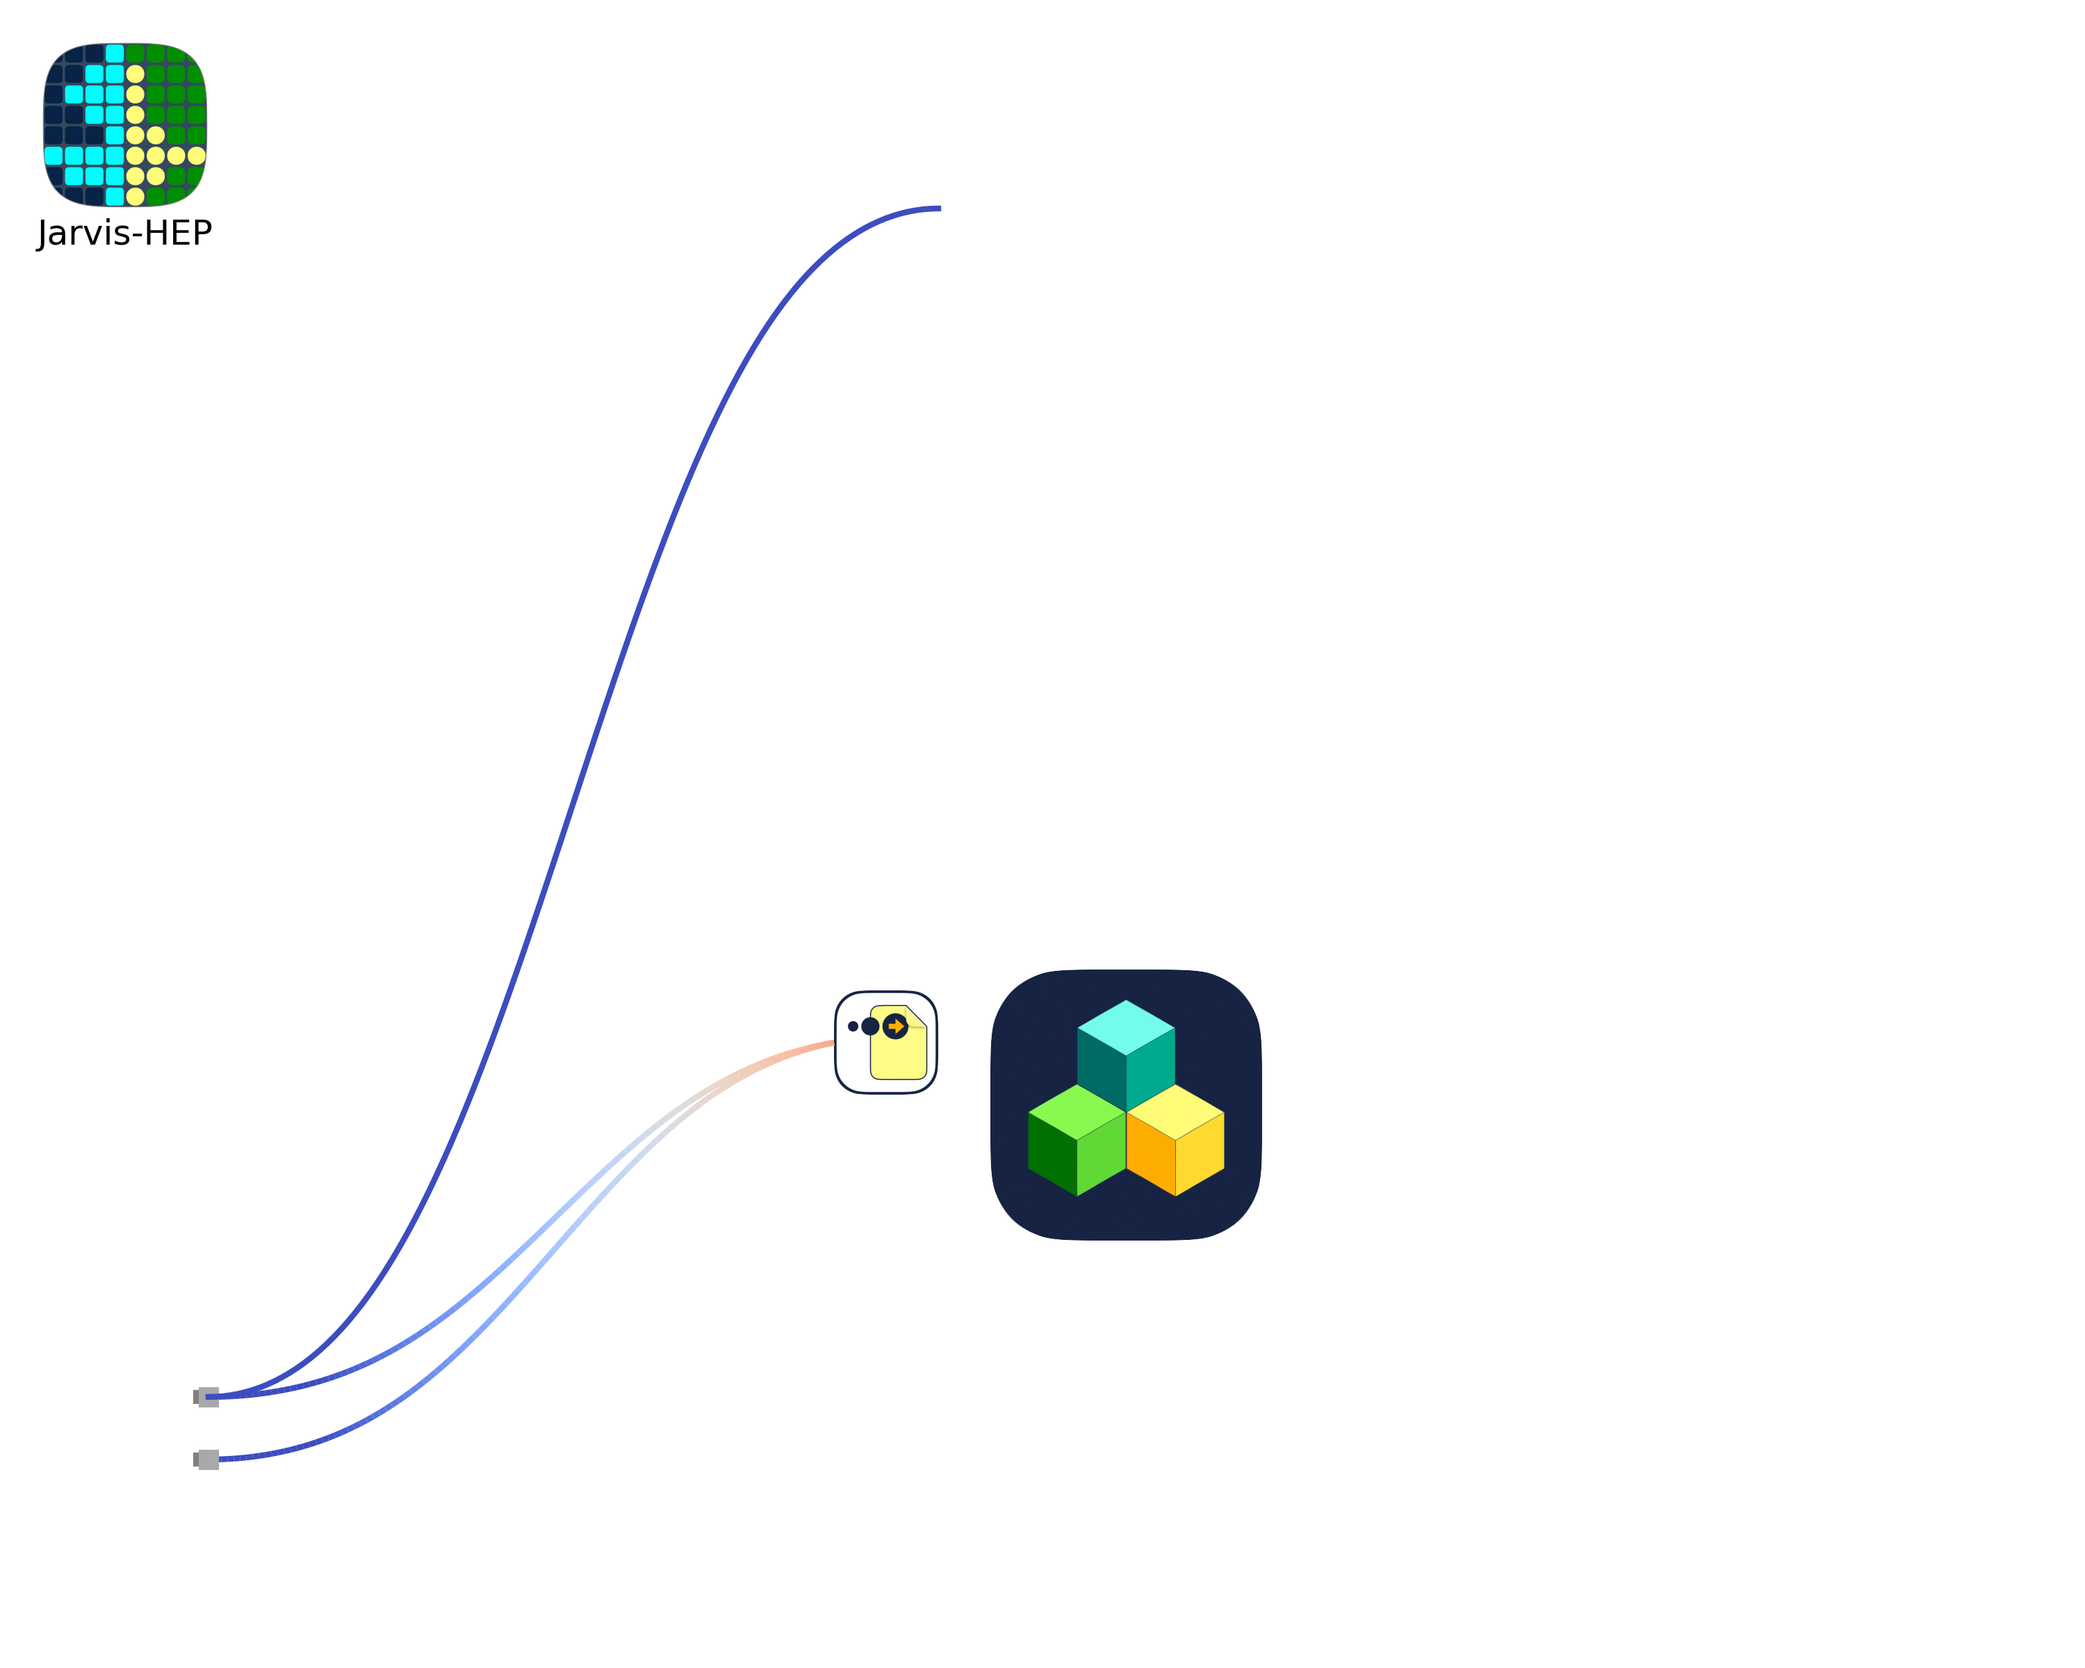
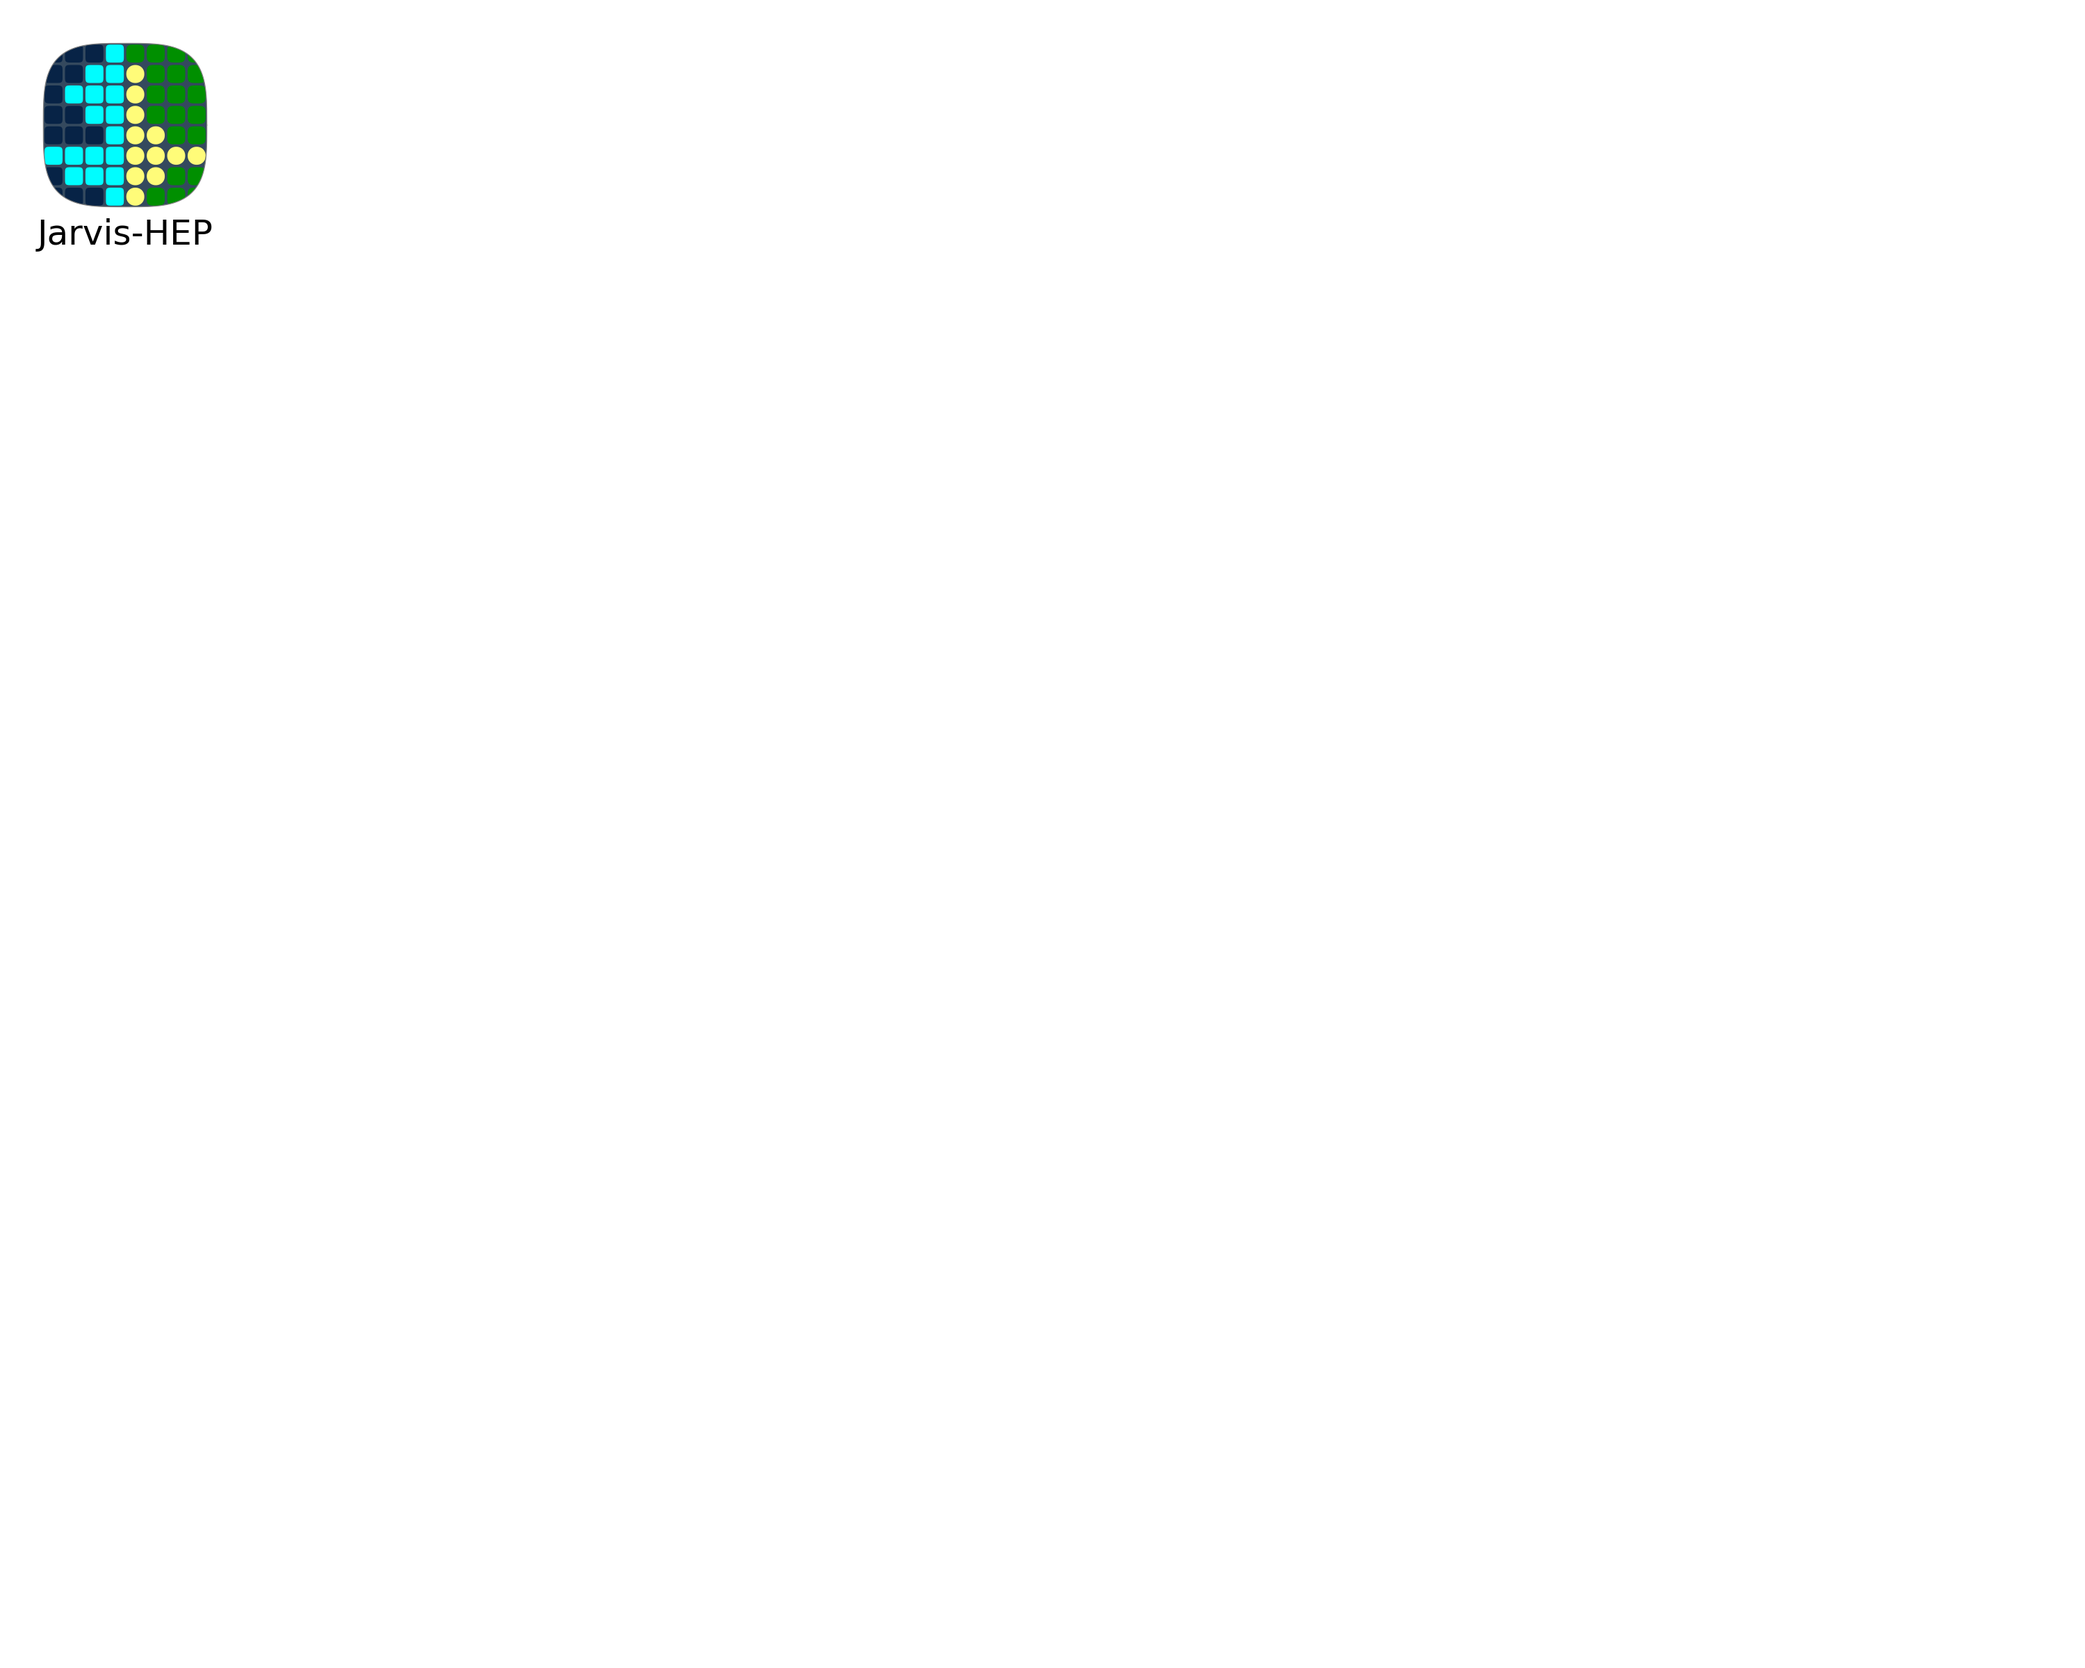
Adding the workflow dependencies

diff --git a/src/workflow.py b/src/workflow.py
@@ -4,6 +4,8 @@ import networkx as nx
 from base import Base
 from module import Module
 import numpy as np 
+import contextlib
+import os, io 
 
 class Workflow(Base):
     def __init__(self):
@@ -62,14 +64,12 @@ class Workflow(Base):
                 unresolved.append(name)
             unresolved_all.append(name)
 
-        print(unresolved_lib, unresolved)
         # resolve the library layers 
         current_layer = 1
         resolved = []
         while unresolved_lib:
             new_resolved = []
             for ii in range(len(unresolved_lib)):
-                print(unresolved_lib[ii], self.modules[unresolved_lib[ii]].required_modules)
                 if current_layer == 1:
                     if not self.modules[unresolved_lib[ii]].required_modules:
                         new_resolved.append(self.modules[unresolved_lib[ii]].name)
@@ -87,7 +87,6 @@ class Workflow(Base):
             # achieve the first layer module
             new_resolved = []
             for ii in range(len(unresolved)):
-                print(unresolved[ii], self.modules[unresolved[ii]].required_modules)
                 if current_layer == 1:
                     if not self.modules[unresolved[ii]].required_modules:
                         new_resolved.append(self.modules[unresolved[ii]].name)
@@ -97,18 +96,15 @@ class Workflow(Base):
             
             resolved.extend(new_resolved)
             unresolved = [item for item in unresolved if item not in resolved]
-            self.calc_layer[current_layer] = new_resolved
+            self.calc_layer[current_layer] = {"module": new_resolved, "ipfs": {}, "opfs": {}, "ipvs": {}, "opvs": {}, "mdls": {}}
             current_layer += 1 
         
         from pprint import pprint
-        pprint(self.libr_layer)
-        pprint(self.calc_layer)
 
     def resolve_dependencies(self):
         # Resolve dependencies based on the IOs 
         output_to_module = {} 
         for module in self.modules.values():
-            print(module.outputs)
             for output in module.outputs:
                 output_to_module[output] = module.name
 
@@ -173,73 +169,199 @@ class Workflow(Base):
                 print(f"Workflow completed successfully for sample point {sample}.")
 
     def draw_flowchart(self):
-        import matplotlib.pyplot as plt 
-        import shapely as sp 
-        import logging
-        logging.getLogger('matplotlib').setLevel(logging.CRITICAL)
-        from matplotlib.collections import LineCollection
-        from plot import draw_logo_in_square
-        from plot import create_round_square
-        from PIL import Image
-        
-        fig = plt.figure(figsize=(10, 8))
-        ax  = fig.add_axes([0., 0., 1., 1.])
-        axlogo = fig.add_axes([0.02, 0.875, 0.08, 0.1])
-        draw_logo_in_square(axlogo)
-        ax.axis("off")
-        
-        def arraw_from_V2F(pA, pB, ax):
-            tt = np.linspace(-0.5 * np.pi, 0.4 * np.pi, 100)
-            xx = np.linspace(pA[0], pB[0], 100)
-            yy = pA[1] + (np.sin(np.sin(tt)) + 0.8414709848078965)/1.6555005931675704 * (pB[1]-pA[1])
-            points = np.array([xx, yy]).T.reshape(-1, 1, 2)
-            segments = np.concatenate([points[:-1], points[1:]], axis=1)
-            cmap = plt.get_cmap('coolwarm')  
-            norm = plt.Normalize(1.5, 5)
-            colors = cmap(norm(xx[:-1]))             
-            lc = LineCollection(segments, colors=colors, linewidth=2)
-            ax.add_collection(lc)
-            ax.plot(pA[0]-0.04, pA[1], 's', c="gray", markersize=4)
-            ax.plot(pA[0], pA[1], 's', c="darkgray", markersize=6)
-        
-        def line_from_V2M(pA, pB, ax):
-            tt = np.linspace(-0.5 * np.pi, 0.5 * np.pi, 100)
-            xx = np.linspace(pA[0], pB[0], 100)
-            yy = pA[1] + ((np.sin(np.sin(tt)) / 2 / 0.8414709848078965) + 0.5)  * (pB[1]-pA[1])
+        # print(self.libr_layer) 
+        # print(self.calc_layer)        
+        def resolve_module(module):
+            print("resolve module", module)
+            res = {"ipf": {}, "opf": {}, "ipv": {}, "opv": {}, 'ohh': 0.9, "ihh": 0.9}
+            if self.modules[module].input:
+                print("resolve ipf", module)
+                ipfl = []
+                nn = len(self.modules[module].input)
+                hh = 0.7 * nn - 0.2
+                for ii in range(nn):
+                    ipf = self.modules[module].input[ii]
+                    ipfl.append({
+                        "nam": ipf['name'],
+                        "pos": np.array([-1.1, ((nn - 1)/2 - ii) * 0.7 + 0.2]),
+                        "inc": [var for var in ipf['variables']]
+                    })
+                res["ipf"] = ipfl
+                res['ihh'] = hh 
+
+            if self.modules[module].output:
+                opfl = []
+                nn = len(self.modules[module].output)
+                hh = 0.7 * nn - 0.2 
+                h0 = 0.
+                for ii in range(nn):
+                    opf = self.modules[module].output[ii]
+                    nv = len(opf['variables'])
+                    if nv <= 2:
+                        hl = 0.5 
+                    else:
+                        hl = 0.2 * nv
+
+                    op = {
+                        "nam": opf['name'],
+                        "pos": np.array([1.1, -h0 - 0.5*hl ]),
+                        "inc": [var['name'] for var in opf['variables']]
+                    }
+                    h0 += hl 
+                    h0 += 0.1
+                    for jj in range(nv):
+                        print(jj, opf['variables'][jj])
+                        res['opv'][opf['variables'][jj]['name']] = {
+                            "pos": np.array([2.6, op["pos"][1] + ((nv-1)/2 - jj) * 0.2 ]),
+                        }
+                    opfl.append(op)
+                h0 -= 0.1
+                res["opf"] = opfl 
+                res['ohh'] = h0
+                from pprint import pprint
+            return res 
+
+        def draw_layer_module(kk, mod, ax):
+            bs = np.array([(kk-1)*7.0, 0.0])
+            oh = np.array([0., + 0.5 * mod['ohh'] - 0.2])
+
+
+            module_at_pos(bs, ax)
+            for ipf in mod['ipf']:
+                input_file_at_pos(ipf['pos'] + bs, ax)
+                line_from_F2M(ipf['pos'] + bs, bs, ax)
+            for opf in mod['opf']:
+                print(opf['pos'], oh)
+                output_file_at_pos(opf['pos'] + bs + oh, ax)
+                line_from_M2F(opf['pos'] + oh, bs, ax)
+            for op in mod['opv']:
+                pos = mod['opv'][op]['pos'] + bs + oh
+                ax.text(pos[0], pos[1], op, fontsize="small", ha="right", va="center")
+
+
+
+
+                            
+
+
+
+        with io.StringIO() as buf, contextlib.redirect_stdout(buf), contextlib.redirect_stderr(buf):
+            import matplotlib.pyplot as plt 
+            import shapely as sp 
+            import logging
+            logging.getLogger('matplotlib').setLevel(logging.CRITICAL)
+            from matplotlib.collections import LineCollection
+            from plot import draw_logo_in_square
+            from plot import create_round_square
+            from PIL import Image
+
+            fig = plt.figure(figsize=(10, 8))
+            ax  = fig.add_axes([0., 0., 1., 1.])
+            axlogo = fig.add_axes([0.02, 0.875, 0.08, 0.1])
+            draw_logo_in_square(axlogo)
+            ax.axis("off")
+
+            def arraw_from_V2F(pA, pB, ax):
+                tt = np.linspace(-0.5 * np.pi, 0.4 * np.pi, 100)
+                xx = np.linspace(pA[0], pB[0], 100)
+                yy = pA[1] + (np.sin(np.sin(tt)) + 0.8414709848078965)/1.6555005931675704 * (pB[1]-pA[1])
+                points = np.array([xx, yy]).T.reshape(-1, 1, 2)
+                segments = np.concatenate([points[:-1], points[1:]], axis=1)
+                cmap = plt.get_cmap('coolwarm')  
+                norm = plt.Normalize(-1.5, 1.5)
+                colors = cmap(norm(tt[:-1]))             
+                lc = LineCollection(segments, colors=colors, linewidth=2)
+                ax.add_collection(lc)
+                ax.plot(pA[0]-0.04, pA[1], 's', c="gray", markersize=4)
+                ax.plot(pA[0], pA[1], 's', c="darkgray", markersize=6)
+
+            def line_from_V2M(pA, pB, ax):
+                tt = np.linspace(-0.5 * np.pi, 0.5 * np.pi, 100)
+                xx = np.linspace(pA[0], pB[0], 100)
+                yy = pA[1] + ((np.sin(np.sin(tt)) / 2 / 0.8414709848078965) + 0.5)  * (pB[1]-pA[1])
+
+                ax.plot(xx, yy, "-", c="#3b4dc0", lw=2)
+
+            def line_from_M2F(pF, pM, ax):
+                tt = np.linspace(0., 0.5*np.pi, 100)
+                xx = np.linspace(0.43 + pM[0], pF[0] + pM[0], 100 )
+                yy = pM[1] - 0.2 + (np.sin(np.sin(tt))) / 0.8414709848078965 * (pF[1] + 0.2)
+                ax.plot(xx, yy, "-", c="#6a97ff", lw=3)
+
+            def line_from_F2M(pF, pM, ax):
+                tt = np.linspace(-0.5*np.pi, 0., 100)
+                xx = np.linspace(pF[0], pM[0] -0.44, 100 )
+                yy = pM[1] + 0.2 + (np.sin(np.sin(tt))) / 0.8414709848078965 * (pF[1] - 0.2)
+                ax.plot(xx, yy, "-", c="#6a97ff", lw=3)
+
+            def input_file_at_pos(pos, ax):
+                image_path = "src/icons/inputfile.png"  
+                image = Image.open(image_path)
+                image = np.array(image)
+                ax.imshow(image, extent=[pos[0]-0.5, pos[0], pos[1]-0.25, pos[1]+0.25], zorder=100)
+
+            def output_file_at_pos(pos, ax):
+                image_path = "src/icons/outputfile.png"  
+                image = Image.open(image_path)
+                image = np.array(image)
+                ax.imshow(image, extent=[pos[0], pos[0]+0.5, pos[1]-0.25, pos[1]+0.25], zorder=100)
+
+            def module_at_pos(pos, ax):
+                image_path = "src/icons/calculator.png"  
+                image = Image.open(image_path)
+                image = np.array(image)
+                ax.imshow(image, extent=[pos[0]-0.45, pos[0]+0.45, pos[1]-0.45, pos[1]+0.45], zorder=100)
+
+            def lib_at_pos(pos, ax):
+                image_path = "src/icons/library.png"  
+                image = Image.open(image_path)
+                image = np.array(image)
+                ax.imshow(image, extent=[pos[0]-0.45, pos[0]+0.45, pos[1]-0.45, pos[1]+0.45], zorder=100)
+
+            def sampler_at_pos(pos, ax):
+                image_path = "src/icons/sampler.png"  
+                image = Image.open(image_path)
+                image = np.array(image)
+                ax.imshow(image, extent=[pos[0]-0.45, pos[0]+0.45, pos[1]-0.45, pos[1]+0.45], zorder=100)
+
             
-            ax.plot(xx, yy, "-", c="#3b4dc0", lw=2)
-        
-        def input_file_at_pos(pos, ax):
-            image_path = "src/icons/inputfile.png"  
-            image = Image.open(image_path)
-            image = np.array(image)
-            ax.imshow(image, extent=[pos[0]-0.5, pos[0], pos[1]-0.25, pos[1]+0.25])
+            outframe = create_round_square([2, 4,])
+            x_coords = [point[0] for point in outframe.exterior.coords]
+            y_coords = [point[1] for point in outframe.exterior.coords]  
+            # ax.plot(x_coords, y_coords, '-', color='grey', lw=0.3)
+            # ax.fill(x_coords, y_coords, fc='#072348', ec=None)
+            ax.set_xlim([0, 10])
+            ax.set_ylim([-4, 4])
 
-        
-        def module_at_pos(pos, ax):
-            image_path = "src/icons/calculator.png"  
-            image = Image.open(image_path)
-            image = np.array(image)
-            ax.imshow(image, extent=[pos[0]-0.65, pos[0]+0.65, pos[1]-0.65, pos[1]+0.65])
-        
-        outframe = create_round_square([2, 4,])
-        x_coords = [point[0] for point in outframe.exterior.coords]
-        y_coords = [point[1] for point in outframe.exterior.coords]  
-        # ax.plot(x_coords, y_coords, '-', color='grey', lw=0.3)
-        # ax.fill(x_coords, y_coords, fc='#072348', ec=None)
-        ax.set_xlim([0, 10])
-        ax.set_ylim([0, 8])
-        arraw_from_V2F([1., 1.], [4., 3], ax)
-        arraw_from_V2F([1., 1.3], [4., 3], ax)
-        line_from_V2M([1., 1.3], [4.5, 7], ax)
-        input_file_at_pos([4.5, 3], ax)
-        module_at_pos([5.4, 2.7], ax)
-        
+            lib_at_pos([1, 6], ax)
+            sampler_at_pos([1, 3], ax)
+            arraw_from_V2F([2., 1.], [4., 3], ax)
+            arraw_from_V2F([2., 1.3], [4., 3], ax)
+            line_from_V2M([2., 1.3], [4.5, 7], ax)
+            input_file_at_pos([4.8, 3], ax)
+            module_at_pos([5.4, 2.8], ax)
+            output_file_at_pos([6.0, 2.6], ax)
+            ax.text(7, 2.6, r"{mn1}", ha="right", va="center")
+            ax.text(7, 2.3, r"{mn1}", ha="right", va="center")
+            ax.text(7, 2.05, r"{mn1}", ha="right", va="center")
+            ax.text(7, 1.85, r"{mn1}", ha="right", va="center")
+
+        # print(self.calc_layer)
+        # for kk, item in self.calc_layer.items():
+        #     for mdl in item['mdls']:
+        #         module_at_pos(item['mdls'][mdl]['pos'], ax)
+
+        #     for opf in item['opfs']:
+        #         # print(opf, item)
+        #         output_file_at_pos(item["opfs"][opf]['pos'], ax)
+
+        for kk, item in self.calc_layer.items():
+            for module in item['module']:
+                mod = resolve_module(module)
+                # print(mod)
+                draw_layer_module(kk, mod, ax)
 
 
-        
 
-        
-              
-        # plt.show()
-        plt.savefig("flowchart.png", dpi=300)
+        plt.show()
+            # plt.savefig("flowchart.png", dpi=300)
